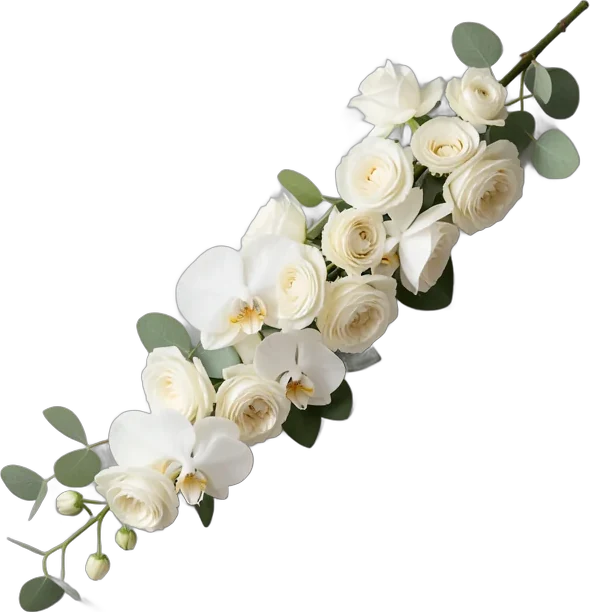
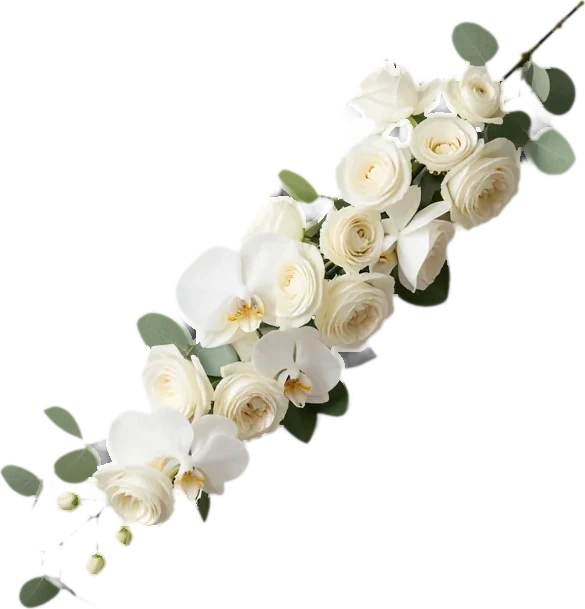
t31: bring back the ring box; cutout.py pulls in the grey rim
Claude-Session: https://claude.ai/code/session_01V4RDDV9jqM6BBijw6Ese9L

diff --git a/my-wed/scripts/design/cutout.py b/my-wed/scripts/design/cutout.py
@@ -1,18 +1,29 @@
 """Cut a realistic AI object out of its plain studio background (for kits drawn in a realistic style,
 where colour-to-alpha would also eat white flowers and marble). Uses rembg's isnet-general-use model,
-then crops to the object. Output: WebP with alpha.
+then pulls the edge in by 2px and repaints the edge pixels with the object's own colour, so no grey rim of
+the studio background shows on the page. Then crops to the object. Output: WebP with alpha.
 Run (in a Python env with rembg installed): python3 scripts/design/cutout.py <in> <out.webp>
 """
 
 import sys
 
-from PIL import Image
+from PIL import Image, ImageFilter
 from rembg import new_session, remove
 
 
 def main(src, out):
     im = Image.open(src).convert("RGB")
     cut = remove(im, session=new_session("isnet-general-use"))
+    alpha = cut.split()[-1].filter(ImageFilter.MinFilter(5)).filter(ImageFilter.GaussianBlur(0.8))
+    # edge colour: the colour of the solid pixels just inside, spread outwards over the rim
+    solid = alpha.point(lambda v: 255 if v > 230 else 0)
+    inner = Image.composite(im, Image.new("RGB", im.size), solid)
+    spread, weight = inner, solid
+    for _ in range(4):
+        spread = spread.filter(ImageFilter.MaxFilter(3))
+        weight = weight.filter(ImageFilter.MaxFilter(3))
+    rgb = Image.composite(im, spread, solid)
+    cut = Image.merge("RGBA", (*rgb.split(), alpha))
     box = cut.split()[-1].point(lambda v: 255 if v > 24 else 0).getbbox()
     cut.crop(box).save(out, quality=88, method=6)
     print(out, cut.crop(box).size)
